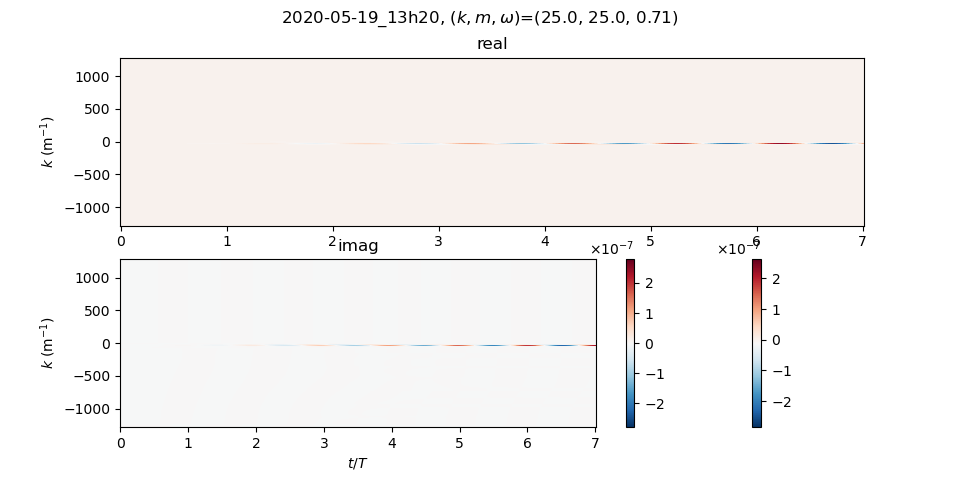
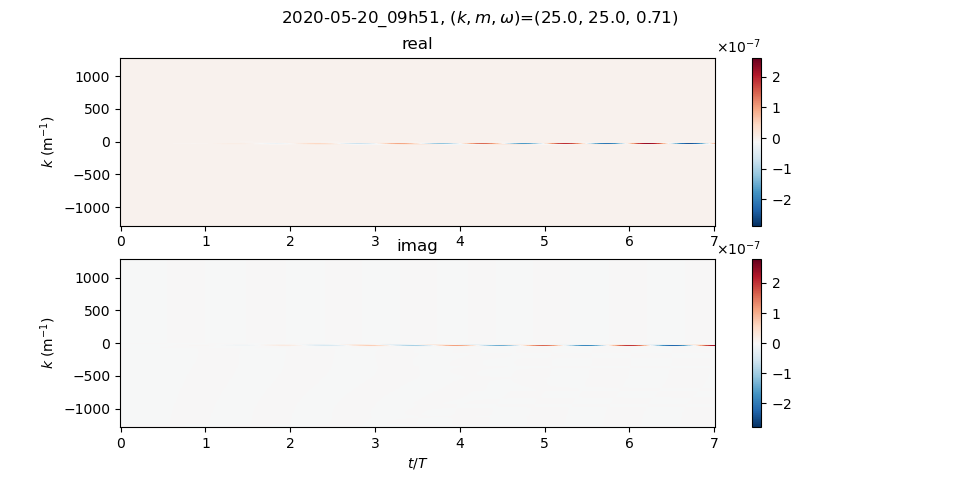
Colorbars show up in the correct positions

diff --git a/helper_functions.py b/helper_functions.py
@@ -157,9 +157,9 @@ def plot_k_vs_t(ks, t_array, T, real_array, imag_array, k, m, omega, z0_dis=None
     # # Set upper and lower limits on colorbar
     # im.set_clim(-cmax, cmax)
     # Add colorbar to im
-    cbar_r = plt.colorbar(im_r)#, format=ticker.FuncFormatter(latex_exp))
+    cbar_r = plt.colorbar(im_r, ax=axes[0])#, format=ticker.FuncFormatter(latex_exp))
     cbar_r.ax.ticklabel_format(style='sci', scilimits=(-2,2), useMathText=True)
-    cbar_i = plt.colorbar(im_i)#, format=ticker.FuncFormatter(latex_exp))
+    cbar_i = plt.colorbar(im_i, ax=axes[1])#, format=ticker.FuncFormatter(latex_exp))
     cbar_i.ax.ticklabel_format(style='sci', scilimits=(-2,2), useMathText=True)
     axes[1].set_xlabel(r'$t/T$')
     axes[0].set_ylabel(r'$k$ (m$^{-1}$)')
